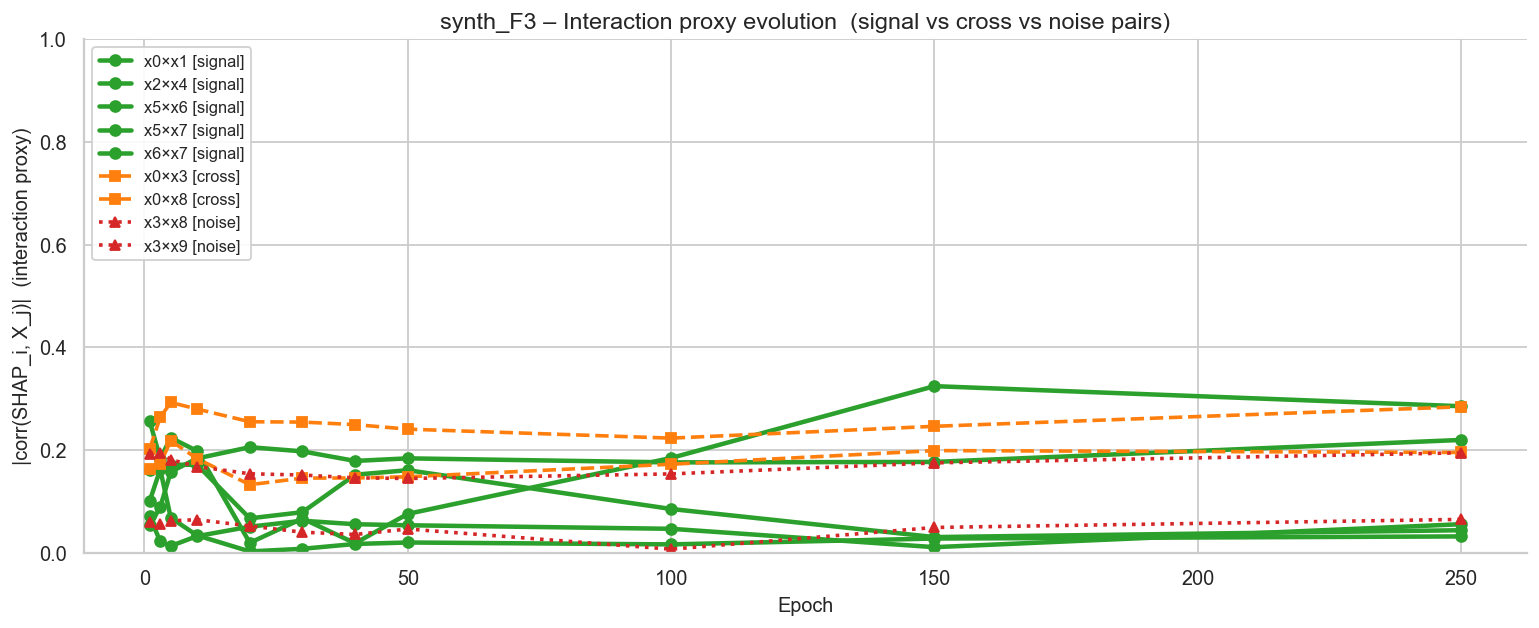
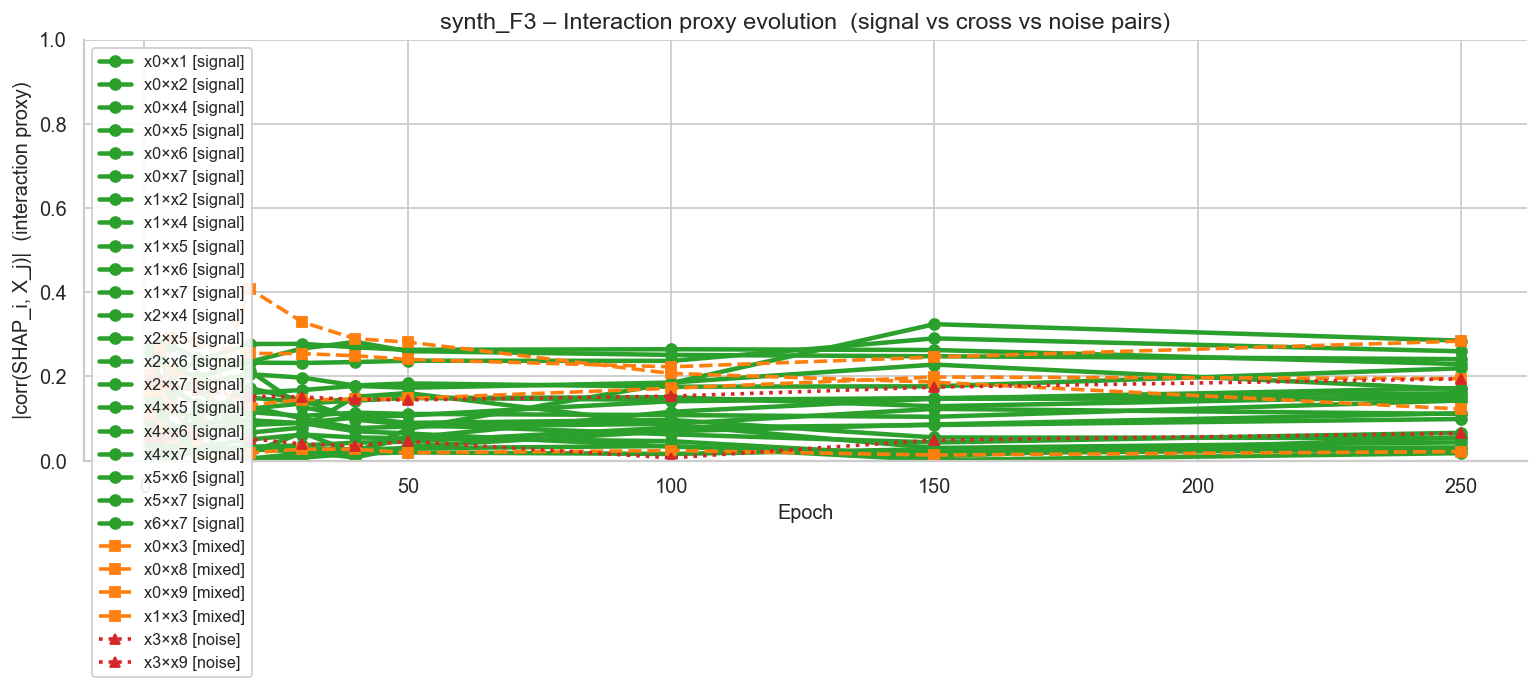
Futher worked on the graph output

Changed region(s): [[0.0, 0.0605, 0.9981, 0.9984], [0.2807, 0.0, 0.7797, 0.0605], [0.499, 0.9379, 0.5302, 0.9984]]

diff --git a/code_shap_analysis.py b/code_shap_analysis.py
@@ -12,6 +12,7 @@ from typing import Optional
 IN_COLAB = "COLAB_RELEASE_TAG" in os.environ
 if not IN_COLAB:
     import matplotlib
+
     matplotlib.use("Agg")
 
 import matplotlib.pyplot as plt
@@ -71,7 +72,7 @@ FEATURE_COLS:    list[str] = []
 SIGNAL_FEATURES: list[str] = []
 NOISE_FEATURES:  list[str] = []
 GT_PAIRS:        list[tuple[str, str]] = []
-CONTRAST_PAIRS:  list[tuple[str, str, str]] = []   # (f1, f2, label) where label ∈ {signal, cross, noise}
+CONTRAST_PAIRS:  list[tuple[str, str, str]] = []   # (f1, f2, label) where label ∈ {signal, mixed, noise}
 
 _T0 = time.perf_counter()
 def _elapsed() -> str:
@@ -199,20 +200,29 @@ def _derive_feature_metadata(ground_truth: dict, n_features: int) -> None:
     GT_PAIRS = [(FEATURE_COLS[a], FEATURE_COLS[b])
                 for (a, b) in ground_truth["pairwise"]]
 
-    # CONTRAST_PAIRS: GT (signal×signal) + signal×noise + noise×noise
-    # Each entry is (f1, f2, category_label)
-    CONTRAST_PAIRS = [(f1, f2, "signal") for f1, f2 in GT_PAIRS]
+    gt_set = {(a, b) for a, b in GT_PAIRS}
 
-    # Add up to 2 signal×noise cross pairs
-    cross_pairs = []
+    # CONTRAST_PAIRS: ALL signal×signal combos (labelled "signal" if GT, else "signal_non_gt"),
+    #                 + signal×noise ("mixed") + noise×noise ("noise")
+    CONTRAST_PAIRS = []
+
+    # All signal×signal combinations
+    for f1, f2 in combinations(SIGNAL_FEATURES, 2):
+        if (f1, f2) in gt_set or (f2, f1) in gt_set:
+            CONTRAST_PAIRS.append((f1, f2, "signal"))
+        else:
+            CONTRAST_PAIRS.append((f1, f2, "signal"))  # still signal features
+
+    # Add up to 4 signal×noise mixed pairs (if noise features exist)
+    mixed_count = 0
     for sf in SIGNAL_FEATURES:
         for nf in NOISE_FEATURES:
-            cross_pairs.append((sf, nf))
-            if len(cross_pairs) >= 2:
+            CONTRAST_PAIRS.append((sf, nf, "mixed"))
+            mixed_count += 1
+            if mixed_count >= 4:
                 break
-        if len(cross_pairs) >= 2:
+        if mixed_count >= 4:
             break
-    CONTRAST_PAIRS += [(f1, f2, "cross") for f1, f2 in cross_pairs]
 
     # Add up to 2 noise×noise pairs
     noise_combos = list(combinations(NOISE_FEATURES, 2))[:2]
@@ -644,7 +654,7 @@ def plot_interaction_proxy_heatmaps(
 # ── 6f  Interaction evolution line plot (contrast pairs) ─────────────────────
 _PAIR_STYLE = {
     "signal": dict(color="#2ca02c", marker="o", linewidth=2.5, linestyle="-"),
-    "cross":  dict(color="#ff7f0e", marker="s", linewidth=2.0, linestyle="--"),
+    "mixed":  dict(color="#ff7f0e", marker="s", linewidth=2.0, linestyle="--"),
     "noise":  dict(color="#d62728", marker="^", linewidth=2.0, linestyle=":"),
 }
 
@@ -731,7 +741,7 @@ def plot_interaction_classification(
     fig, axes = plt.subplots(n_pairs, 2, figsize=(14, 5 * n_pairs),
                               squeeze=False)
 
-    cat_colours = {"signal": "#2ca02c", "cross": "#ff7f0e", "noise": "#d62728"}
+    cat_colours = {"signal": "#2ca02c", "mixed": "#ff7f0e", "noise": "#d62728"}
 
     for row, (f1, f2, cat) in enumerate(pairs):
         i1 = FEATURE_COLS.index(f1)
